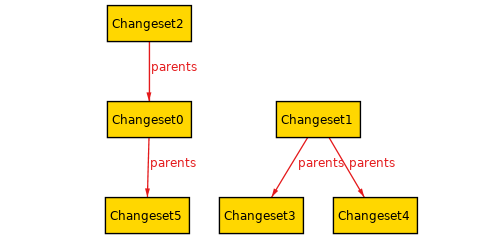
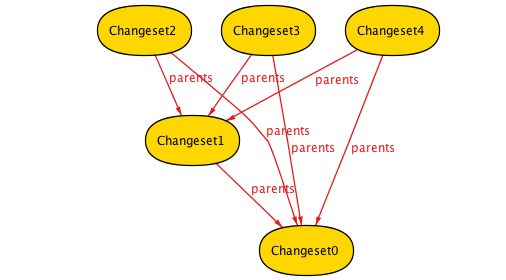
Added theme and updated images. Reworked text.

Changed region(s): [[0.1829, 0.0, 0.8841, 1.0], [0.6402, 0.2059, 0.6707, 0.2353]]

diff --git a/README.md b/README.md
@@ -1,18 +1,55 @@
-# Modelling Mercurial in Alloy
+# Modelling Mercurial with Alloy
 
 ## Introduction
 
-[Alloy](http://alloytools.org/) is a declarative language for modeling data structures, using relations between sets.
-Operations and invariants are all expressed via constraints on the structure.
+This is a chronicle of my voyage to build a model of Mercurial in Alloy. The goal is to build
+a fairly rigorous model which we can experiment on, and likely find a few surprising things.
+Later, we can use it as the basis for evaluating changes to the model.
 
-In this writeup, I'm going to use it to model Mercurial's core data structures. I'm hoping that
-by approaching it in a fairly rigourous way I can shine light into the subtle corners and
-come up with interesting questions to ask.
+[Alloy](http://alloytools.org/) is a declarative language for modeling data structures, using 
+relations between sets. Operations and invariants are all expressed via constraints on the 
+structure; Alloy allows these constraints to be expressed very concisely.
+
+Alloy encourages a very iterative experimental approach. Here, I'm primarily interested in
+constructing a model and looking at its output (ie, things that it generates that meet all the
+stated constraints) to see if they meet my expectation. If there's something odd in there, it
+either means that there's something missing from the model, or perhaps it means that there's are
+implications of the model which I didn't anticipate.
 
 This is not intended to be an Alloy tutorial, but I'm learning it myself. This is my writeup
-as I progress, so it should be fairly easy to follow along. You can download Alloy from
-[here](https://github.com/AlloyTools/org.alloytools.alloy/releases) and load up the sources to
-try them out.
+of my learning process, so it should be fairly easy to follow along. You can download Alloy from
+[here](https://github.com/AlloyTools/org.alloytools.alloy/releases) and load up the
+[sources](https://github.com/jsgf/hg-alloy) to try them out.
+
+### Sidenote - Understanding the Diagrams
+
+I'm using Alloy's built-in tool for visualizing graphs. It doesn't do a great job of laying things out,
+but it isn't too bad at this scale (it also supports exporting to dot for somewhat better layout).
+
+Here's a more complex example which has a couple of everything:
+
+![Example](images/example.png)
+
+We'll get into more detail about what all these mean in detail later on, but broadly:
+
+- `RepoN` is represents an instance of a repository, and is represented by a green parallelogram. Unlike
+   everything else, the N is generally meaningful, as Repos have an ordered relationship - increasing N
+   represents evolution over time.
+- `ChangesetN` represents an instance of a changeset, and is a yellow ellipse
+- `ManifestN` is a manifest, represented by a reddish rhombus
+- `FileN` is a specific version of a file, in a blue box
+
+(Not shown here are Paths, which every file has. They're omitted here for clarity, but can be shown
+with a toggle in the style. Also Repo may not explicitly appear because the display is "projected over Repo" - this
+allows diagrams to show progressive change as Repos change.)
+
+Edges between these show how they're related:
+- `changesets` shows the relation between a repo and all the changesets it contains. Note that a single changeset
+   can be (and often is) part of multiple repos
+- `parents` shows an arrow from a child to its parent(s). 
+- `manifest` shows the relation between a changeset and its manifest. Every changeset has a manifest, but manifests
+  can be shared between changesets
+- `files` shows all the files that are part of a manifest
 
 ## Getting Started - The simplest thing that can possibly work
 
@@ -122,18 +159,21 @@ is part of that Repo.
 assert allConnected {
     -- for all Repos, the repo's set of changesets should equal the set of reachable
     -- changesets. `*` is like `^` for transitive closure, but it includes the starting points.
-	all r: Repo | r.changesets = r.changesets.*parents
+    all r: Repo | r.changesets = r.changesets.*parents
 }
 
 check allConnected for 5
 ```
-This defines an assertion which should always be true, and checks its true for all constructions up to 5 elements large. This quickly shows the problem:
+This defines an assertion of an invariant, and checks its true for all constructions up to 5 elements large. This quickly shows the problem:
 
 ![problem](images/v1-2.png)
 
-Repo1 is connected to Changesets[0..4], but only Changeset0 is in Repo1's changeset. For now, we can add that as another fact:
+Changesets{0,1} have a parent/child relationship, and Repo0 is connected to Changesets{0,1}, But Repo1 only has Changeset1, not 0.
+
+Let's fix that for now by just making it an axiom:
 ```
 fact {
+    -- for every existing Repo, the changesets set must be the same as a all the changesets reachable from that set
     all r: Repo | r.changesets = r.changesets.*parents
 }
 ```
@@ -141,7 +181,9 @@ fact {
 ## Making Changes
 
 Now that we have multiple Repos, we can use them to represent changes - ie, before and after states.
-This means that there's an ordering relationship between Repos.
+We can build up a Repo's state inductively: starting from an initial empty Repo, we can keep
+adding new Changesets via commit operations. This implies that Repos have an ordering relationship,
+which we can use Alloy's built-in `util/ordering` module to implement.
 
 ```
 module mercurial
@@ -189,9 +231,15 @@ check csAcyclic for 5
 ```
 
 Now that we're constructing the Repo state incrementally via `commit`, we should be getting
-the properties we want by construction rather than making them axioms - so we make them assertions
-instead. Unfortunately they fail - we need to add some more preconditions to `commit`.
+the properties we want by construction rather than making them axioms...
 
+Um, no:
+
+![Loop / not new](images/v2-0.png)
+
+We're still getting loops, and we're not adding new changesets on each `commit`.
+
+We need to add some more preconditions to `commit`.
 Firstly, we need to ensure that the `Changeset` we're adding to the Repo isn't already part of the
 Repo. And secondly, its parents must be part of the Repo:
 
@@ -204,17 +252,20 @@ pred commit [r, r': Repo, cs: Changeset] {
 }
 ```
 
+(Note that the lines in the predicate are treated as logically-ANDed together. The final line isn't an
+assignment or imperative - it's just a constraint on the relationship between `r` and `r'`.)
+
 Unfortunately, these preconditions are not quite enough - we still need to constrain all Changesets to
 being part of a repo:
+
+![Floating](images/v2-1.png)
+
+That can be a `fact`.
 ```
 fact {
     all cs: Changeset | cs in Repo.changesets
 }
 ```
-
-(Note that `pred commit` is not changing anything, or assigning anything to `r'`. Rather, it's setting 
-constraints on the relationship between `r` and `r'` so when Alloy constructs structures that meet the 
-constraints, they have the right properties.)
 
 ## Generalizing History
 
@@ -256,9 +307,12 @@ completely unconstrained, so let's see how that works out:
 ![Manifestly messy](images/v3-0.png)
 
 Ew, the Manifests have parents, but they're completely uncoupled from their corresponding Changsets.
+(Not to mention Manifest0's self parenthood, and Manifest1 and 2's mutual parenthood.)
+
 Let's add some more preconditions for `commit`:
 
 ```
+-- Helper function to return the set of ancestors for a particular Node.
 fun ancestors [n: Node]: set Node {
     n.^parents
 }
@@ -271,7 +325,7 @@ pred commit [r, r': Repo, cs: Changeset] {
     // Manifest preconditions
     -- Manifest's parents must be changeset's parent's manifests 
     cs.manifest.parents = cs.parents.manifest
-    -- Manifest must either be new, or from the parents
+    -- Manifest must either be new (ie, not exist in ancestors) except for the parents
     cs.manifest in (Manifest - ancestors[cs].manifest + cs.parents.manifest)
 
     r'.changesets = r.changesets + cs
@@ -290,13 +344,29 @@ file change. This means that the Manifest is unchanged across Changesets. If thi
 means that two changesets can share the same parent, and a changeset that merges them would also have the
 same Manifest.  OK, I guess?
 
-Let's assert that all Nodes are acyclic with respect to their parents.
+Now that we're incrementally constructing the Repo state, and each commit has a set of local constraints
+for Changesets as they're being added, we can check some assertions for global invariants that we expect
+to hold over multiple commits:
 
 ```
+-- All Nodes are acyclic with respect to their parents (covers Changesets, Manifests, Files)
 assert nodeAcyclic {
     all n: Node | n not in n.^parents
 }
-check nodeAcyclic for 8
+check nodeAcyclic for 8 -- up to 8 of any top level thing
+
+-- Manifest's parents are their Changeset's parents' Manifests
+assert manifestParents {
+	all cs: Changeset | cs.manifest.parents = cs.parents.manifest
+}
+check manifestParents for 8 but 12 Node -- allow more Nodes because each cs uses at least 2
+
+-- Manifests aren't suddenly reused with respect to their history
+-- (Disjoint history is allowed to reuse manifests?)
+assert noManifestReuse {
+	all cs: Changeset | cs.manifest in (Manifest - (cs::ancestors[].manifest) + cs.parents.manifest)
+}
+check noManifestReuse for 8 but 12 Node
 ```
 
 Yep, all good.
